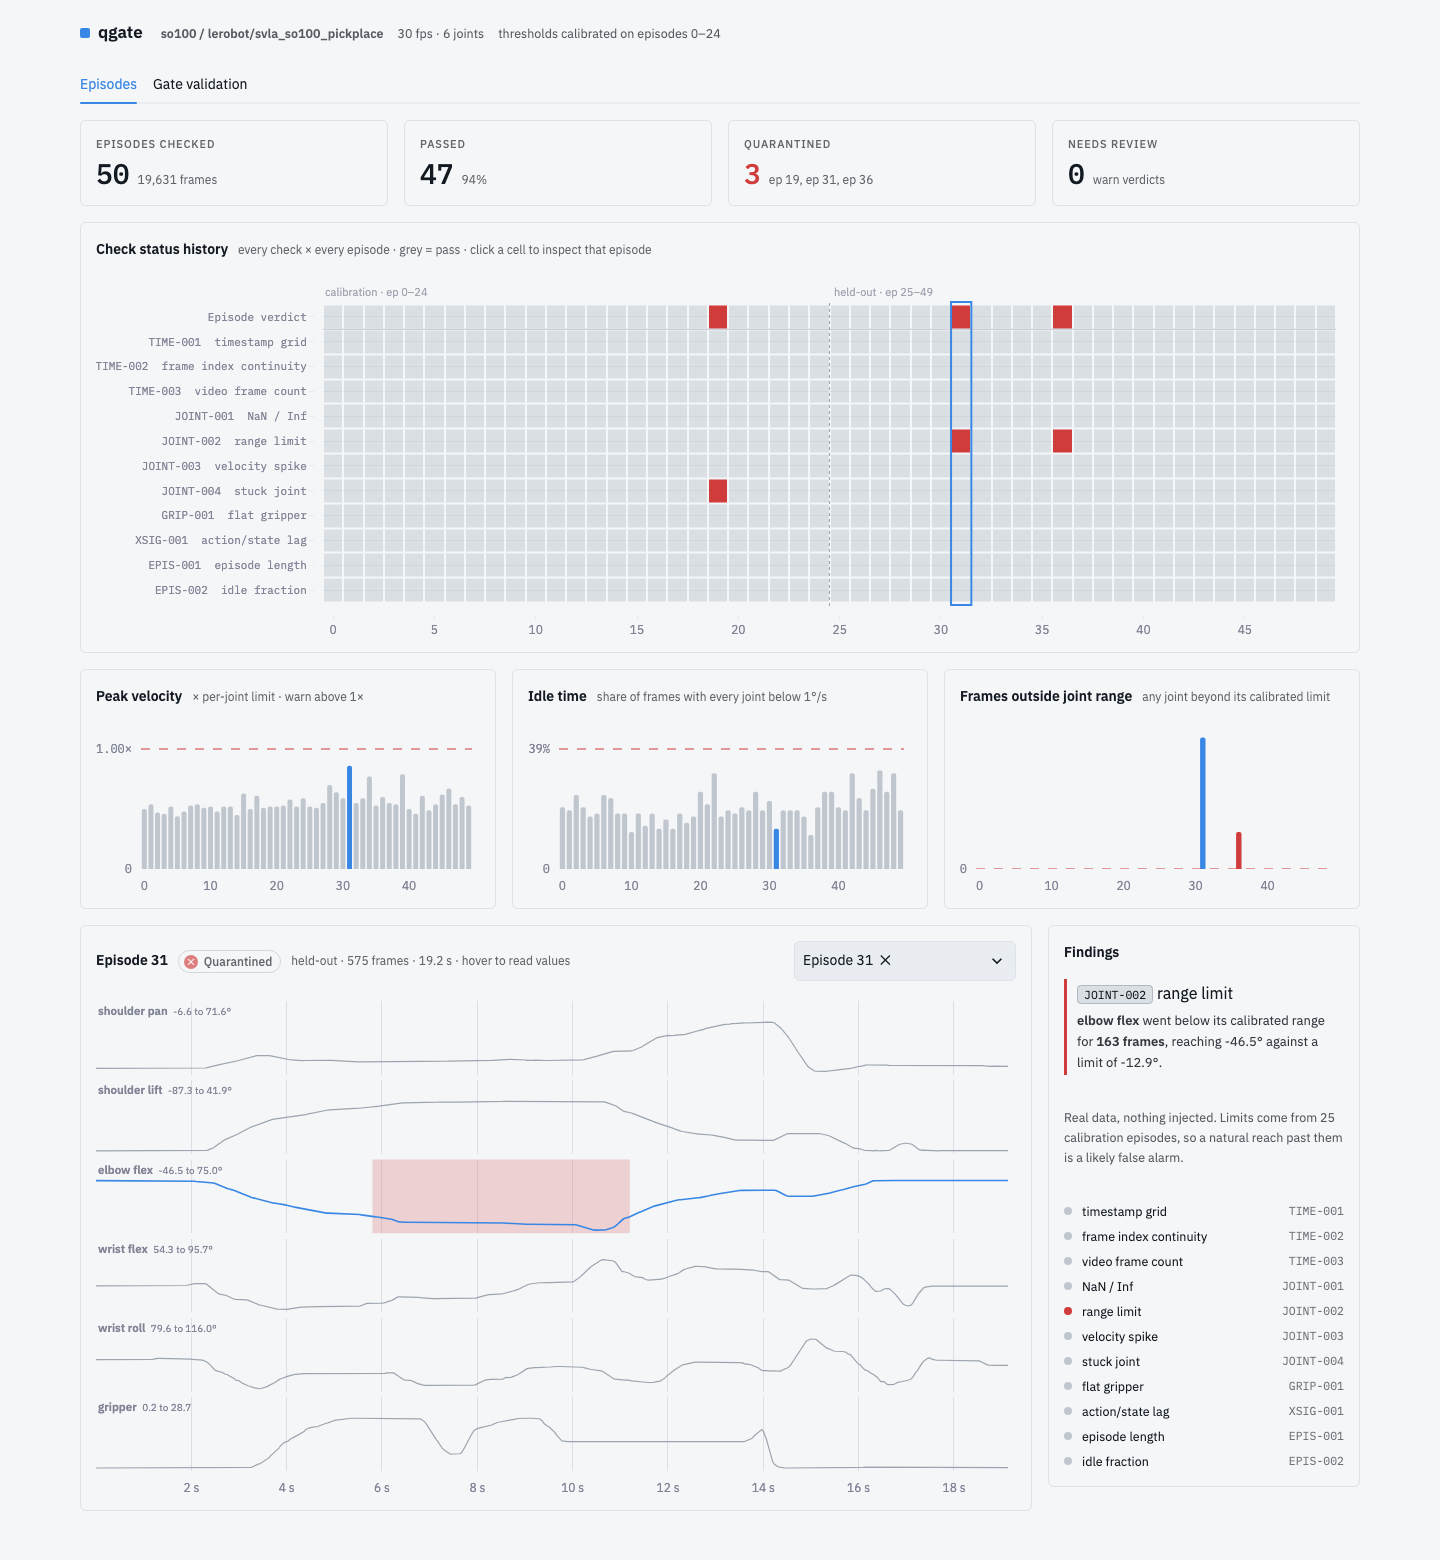
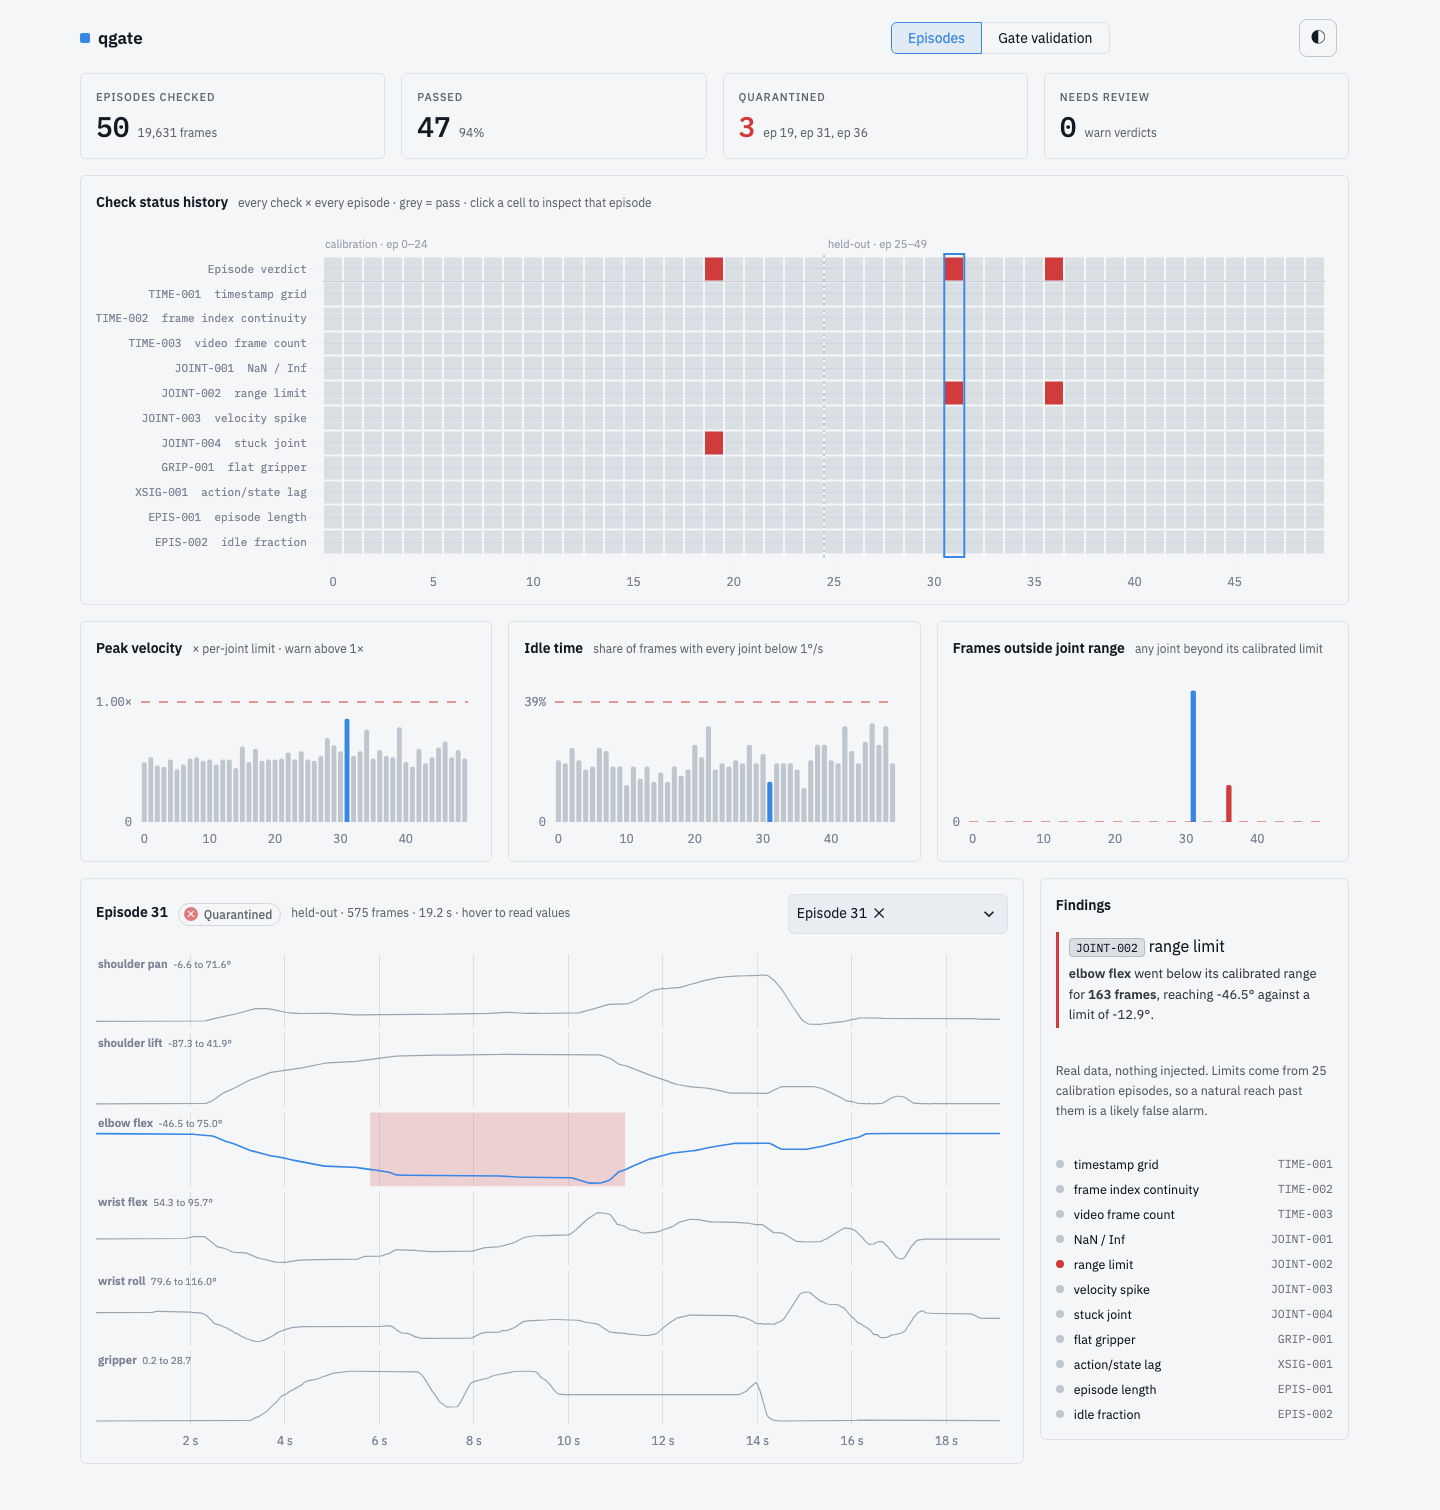
Move page switch and theme toggle to the top right
- Replace the tab bar and dataset context line with a top-right
  Episodes / Gate validation switch and a light/dark toggle, as in the
  Board prototype. The toggle writes Streamlit's saved theme setting
  and reloads (relies on a Streamlit internal; fallback is the menu).
- Keep page and episode in the URL (?page=validation, ?ep=19).
- Benchmark heatmap: one readable line per cell.
- Fault lab: compute every flagged timing frame instead of the first 40,
  and skip shading when a timing fault touches most of the episode.
- Refresh README screenshot.

diff --git a/app/app.py b/app/app.py
@@ -34,10 +34,9 @@ FONT = dict(family="IBM Plex Sans, system-ui, sans-serif", size=11)
 
 st.html(f"""<style>
 [data-testid="stMainBlockContainer"] {{ padding-top: 1.2rem; padding-bottom: 3rem; max-width: 1680px; }}
-.qg-top {{ display:flex; align-items:center; gap:18px; flex-wrap:wrap; margin-bottom:2px; }}
 .qg-brand {{ font-weight:600; font-size:17px; display:flex; align-items:center; gap:8px; }}
 .qg-brand i {{ width:10px; height:10px; border-radius:2px; background:{ACCENT}; display:inline-block; }}
-.qg-ctx {{ font-size:12.5px; opacity:.7; display:flex; gap:14px; flex-wrap:wrap; }}
+.st-key-nav [data-testid="stButtonGroup"] {{ justify-content:flex-end; }}
 .qg-eyebrow {{ font-size:11px; text-transform:uppercase; letter-spacing:.08em; opacity:.65; font-weight:500; }}
 .qg-v {{ font-family:'IBM Plex Mono', ui-monospace, monospace; font-size:28px; font-weight:500; line-height:1.15; margin-top:4px;
          display:flex; align-items:baseline; gap:8px; font-variant-numeric:tabular-nums; }}
@@ -141,6 +140,16 @@ def evidence(ep: Episode, findings, th):
                 if len(idx):
                     out.append(dict(code=code, status=st_, joint=j, iv=runs(idx, 2), text=(
                         f"<b>{JN[j]}</b> moved at up to <b>{ratio[:, j].max():.1f}×</b> its velocity limit.")))
+        elif code in ("TIME-001", "TIME-002"):
+            # recompute every bad frame (Finding.frames stops at 40); shade only when the problem is local,
+            # since jitter or drift touches nearly every frame and would just paint the whole plot
+            if code == "TIME-001":
+                bad = np.where((np.abs(ep.ts - ep.frame_index / ep.fps) > th["ts_tol"])[:-1] | (np.diff(ep.ts) <= 0))[0]
+            else:
+                bad = np.where(np.diff(ep.frame_index) != 1)[0]
+            local = len(bad) <= 0.3 * ep.n
+            out.append(dict(code=code, status=st_, joint=None, iv=runs(bad, 2) if local else [],
+                            text=f["detail"].capitalize() + ("." if local else " (spread across the episode, so not shaded).")))
         elif code == "GRIP-001":
             out.append(dict(code=code, status=st_, joint=len(JOINTS) - 1, iv=[[0, ep.n - 1]], text=f["detail"].capitalize() + "."))
         else:
@@ -269,12 +278,12 @@ def bench_heatmap():
             c = table[f][s]
             zr.append(bucket(c["flagged"] / c["n"]))
             flag = " ⚑" if c["attributed"] < c["flagged"] else ""
-            tr.append(f"<b>{c['flagged']}/{c['n']}{flag}</b><br><span style='font-size:10px'>{c['param']} {c['unit']}</span>")
+            tr.append(f"<b>{c['flagged']}/{c['n']}{flag}</b>   {c['param']} {c['unit']}")
         z.append(zr); text.append(tr)
     scale = []
     for i, col in enumerate(SEQ):
         scale += [[i / 5, col], [(i + 1) / 5, col]]
-    fig = go.Figure(go.Heatmap(z=z, x=sevs, y=[f.replace("_", " ") for f in faults], text=text, texttemplate="%{text}",
+    fig = go.Figure(go.Heatmap(z=z, x=sevs, y=[f.replace("_", " ") for f in faults], text=text, texttemplate="%{text}", textfont=dict(size=12),
                                hovertemplate="%{y}, %{x}<extra></extra>", zmin=-.5, zmax=4.5, colorscale=scale, showscale=False, xgap=3, ygap=3))
     base_layout(fig, 560, margin=dict(l=0, r=8, t=28, b=0))
     fig.update_yaxes(autorange="reversed")
@@ -283,9 +292,23 @@ def bench_heatmap():
 
 
 # ------------------------------------------------------------------ episode selection (shared by all clickable charts)
+# The page and episode live in the URL (?page=validation&ep=31) so links and the theme toggle's reload keep your place.
+PAGES = {"episodes": "Episodes", "validation": "Gate validation"}
 if "ep_sel" not in st.session_state:
     _fails = [i for i, e in EPS.items() if e["verdict"] == "fail"]
-    st.session_state["ep_sel"] = next((i for i in _fails if i >= 25), _fails[0] if _fails else 0)   # first held-out failure
+    _qp = st.query_params.get("ep", "")
+    st.session_state["ep_sel"] = int(_qp) if _qp.isdigit() and int(_qp) in EPS else \
+        next((i for i in _fails if i >= 25), _fails[0] if _fails else 0)   # first held-out failure
+if "nav" not in st.session_state:
+    st.session_state["nav"] = PAGES.get(st.query_params.get("page", ""), "Episodes")
+    st.session_state["nav_last"] = st.session_state["nav"]
+
+
+def _nav_changed():
+    # a segmented control can be clicked off; keep the current page instead of showing nothing
+    if st.session_state["nav"] is None:
+        st.session_state["nav"] = st.session_state["nav_last"]
+    st.session_state["nav_last"] = st.session_state["nav"]
 
 
 def _pick(key):
@@ -296,11 +319,39 @@ def _pick(key):
 
 
 # ------------------------------------------------------------------ page
-st.html(f"""<div class="qg-top"><div class="qg-brand"><i></i>qgate</div>
-<div class="qg-ctx"><b>{META['dataset']}</b><span>{FPS:g} fps · {len(JOINTS)} joints</span><span>thresholds calibrated on episodes 0–24</span></div></div>""")
-tab_eps, tab_val = st.tabs(["Episodes", "Gate validation"])
+top_l, top_nav, top_theme = st.columns([6, 3, .45], vertical_alignment="center")
+with top_l:
+    st.html('<div class="qg-brand"><i></i>qgate</div>')
+with top_nav:
+    st.segmented_control("Page", list(PAGES.values()), key="nav", on_change=_nav_changed, label_visibility="collapsed")
+with top_theme:
+    # Streamlit has no API to switch theme from app code. This writes the same browser setting as its own
+    # Settings menu ("stActiveTheme-<path>-v2" = "Light" | "Dark" | "System", Streamlit >= 1.50) and reloads.
+    # It relies on a Streamlit internal: if a Streamlit upgrade breaks it, use the menu's Settings > Theme instead.
+    st.html("""<button id="qg-theme" type="button" title="Switch light / dark" aria-label="Switch light or dark theme"
+      style="font:16px/1 sans-serif;width:38px;height:38px;border-radius:8px;cursor:pointer;background:transparent;
+             color:inherit;border:1px solid rgba(128,140,155,.45)">◐</button>
+    <script>
+    (() => {
+      const b = document.getElementById("qg-theme"); if (!b || b.dataset.wired) return; b.dataset.wired = "1";
+      b.addEventListener("click", () => {
+        const key = "stActiveTheme-" + window.location.pathname + "-v2";
+        let cur = null; try { cur = JSON.parse(localStorage.getItem(key)); } catch (e) {}
+        const dark = cur === "Dark" || ((cur === null || cur === "System") && matchMedia("(prefers-color-scheme: dark)").matches);
+        try { localStorage.setItem(key, JSON.stringify(dark ? "Light" : "Dark")); } catch (e) {}
+        location.reload();
+      });
+    })();
+    </script>""", unsafe_allow_javascript=True)
 
-with tab_eps:
+PAGE = st.session_state["nav"] or "Episodes"
+st.query_params["page"] = next(k for k, v in PAGES.items() if v == PAGE)
+if PAGE == "Episodes":
+    st.query_params["ep"] = str(st.session_state["ep_sel"])
+else:
+    st.query_params.pop("ep", None)
+
+if PAGE == "Episodes":
     sel = st.session_state["ep_sel"]
     failed = [i for i, e in EPS.items() if e["verdict"] == "fail"]
     c = st.columns(4)
@@ -356,7 +407,7 @@ with tab_eps:
             st.html('<div class="qg-note">All 11 checks passed.</div>')
         st.html(checklist(e["checks"]))
 
-with tab_val:
+else:
     table, sevs = BENCH["table"], ["subtle", "moderate", "obvious"]
     cells = [table[f][s] for f in table for s in sevs]
     fp = BENCH["clean_heldout"]
